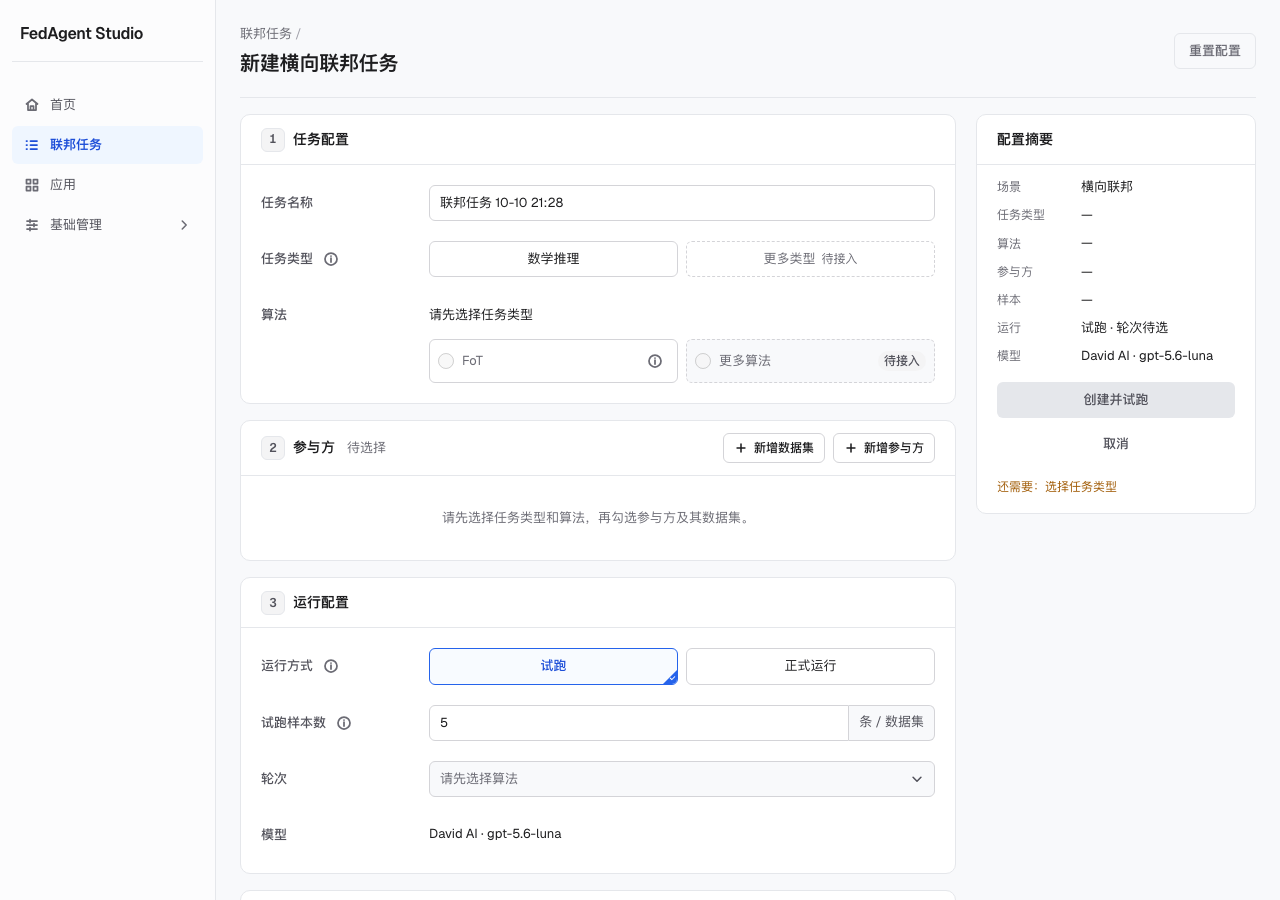
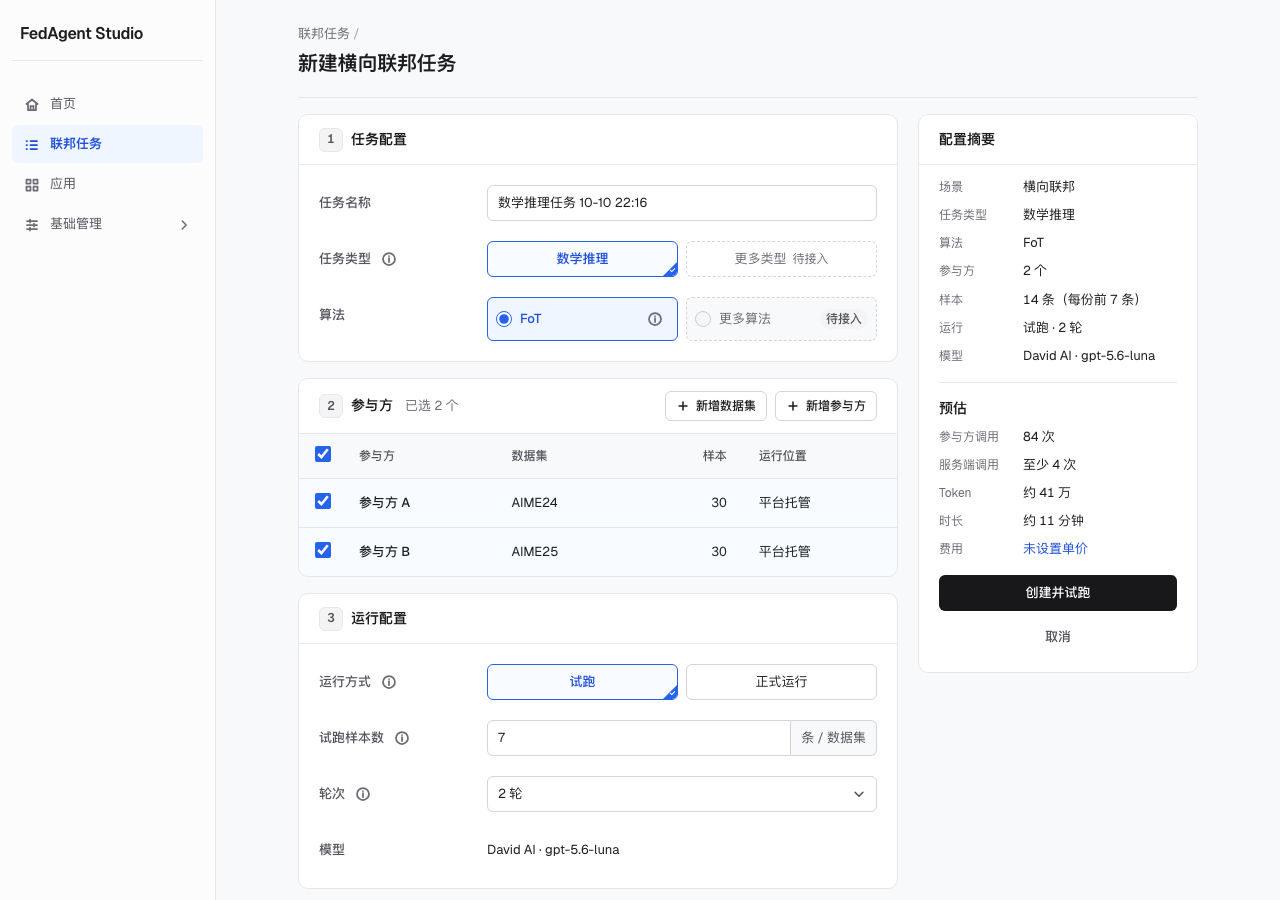
fix(ui): focus task configuration on available participants

diff --git a/app/src/ui/HorizontalTaskPage.tsx b/app/src/ui/HorizontalTaskPage.tsx
@@ -38,8 +38,6 @@ import {
   isConfigured,
   modelLabel,
   modelOptions,
-  PARTICIPANT_STATUS,
-  pendingNote,
   type Dataset,
   type Participant,
 } from "../domain/resources";
@@ -106,7 +104,8 @@ export default function HorizontalTaskPage({ state, dispatch }: Props) {
   const taskType = draft.taskType;
   const candidates: Candidate[] = algorithm && scenarioId && taskType
     ? state.participants.flatMap((participant) => {
-      const datasets = compatibleDatasets(scenarioId, taskType, datasetsOf(state, participant.id));
+      if (participant.status !== "online") return [];
+      const datasets = compatibleDatasets(scenarioId, taskType, datasetsOf(state, participant.id)).filter((dataset) => dataset.ready);
       return datasets.length ? [{ participant, datasets }] : [];
     })
     : [];
@@ -222,11 +221,7 @@ export default function HorizontalTaskPage({ state, dispatch }: Props) {
 
   return (
     <>
-      <PageHead title="新建横向联邦任务" crumbs={[{ label: "联邦任务", route: back }]} actions={(
-        <button type="button" className="button button--secondary" disabled={!draft.touched || creating} onClick={() => setPending("restart")}>
-          重置配置
-        </button>
-      )} />
+      <PageHead title="新建横向联邦任务" crumbs={[{ label: "联邦任务", route: back }]} />
       {createError && pending !== "full" ? <Notice tone="warning" onDismiss={() => setCreateError(null)}>没有创建：{createError}</Notice> : null}
       {restored && draft.scenario ? (
         <Notice onDismiss={() => setRestored(null)}>
@@ -266,7 +261,7 @@ export default function HorizontalTaskPage({ state, dispatch }: Props) {
             ) : candidates.length ? (
               <ParticipantTable draft={draft} dispatch={dispatch} candidates={candidates} />
             ) : (
-              <PanelEmpty>还没有参与方登记了“{usageText(scenarioId, taskType)}”的数据集。</PanelEmpty>
+              <PanelEmpty>暂无可用于“{usageText(scenarioId, taskType)}”的参与方。</PanelEmpty>
             )}
           </Panel>
 
@@ -275,6 +270,11 @@ export default function HorizontalTaskPage({ state, dispatch }: Props) {
           </Panel>
 
           <AdvancedPanel state={state} draft={draft} update={update} algorithm={algorithm} joined={joined.map((item) => item.participantId)} />
+          <div className="task-config-actions">
+            <button type="button" className="button button--secondary" disabled={!draft.touched || creating} onClick={() => setPending("restart")}>
+              重置配置
+            </button>
+          </div>
         </div>
 
         <aside className="order-summary" aria-label="配置摘要" id="task-summary">
@@ -380,19 +380,12 @@ type Candidate = { participant: Participant; datasets: Dataset[] };
 
 /**
  * 参与方：带复选框的表格，一行一个参与方，表头可以全选。每个参与方出一份数据集，
- * 名下有几份能用的数据集时在行里选用哪一份。还不能参加的（等待连接、离线、样本还没就绪）写明原因，并能点进去查看。
+ * 只展示在线且有匹配、已就绪数据集的参与方，多份可用数据集在行内选择。
  */
 function ParticipantTable({ draft, dispatch, candidates }: { draft: Draft; dispatch: Dispatch<Action>; candidates: readonly Candidate[] }) {
   const head = useRef<HTMLInputElement>(null);
   const picks = new Map(draft.participants.map((item) => [item.participantId, item.datasetId]));
-  // 能选的数据集：参与方在线、样本已就绪。能参加的排在前面，还不能参加的放在后面。
-  const rows = candidates
-    .map(({ participant, datasets }) => {
-      const ready = participant.status === "online" ? datasets.filter((dataset) => dataset.ready) : [];
-      return { participant, datasets, ready, picked: ready.find((dataset) => dataset.id === picks.get(participant.id)) };
-    })
-    .sort((a, b) => Number(!a.ready.length) - Number(!b.ready.length));
-  const open = rows.filter((row) => row.ready.length);
+  const open = candidates.map(({ participant, datasets }) => ({ participant, ready: datasets, picked: datasets.find((dataset) => dataset.id === picks.get(participant.id)) }));
   const chosen = open.filter((row) => row.picked).length;
   const all = open.length > 0 && chosen === open.length;
   const some = !all && chosen > 0;
@@ -422,20 +415,18 @@ function ParticipantTable({ draft, dispatch, candidates }: { draft: Draft; dispa
             <th scope="col">数据集</th>
             <th scope="col" className="numeric col-optional">样本</th>
             <th scope="col" className="col-optional">运行位置</th>
-            <th scope="col">状态</th>
           </tr>
         </thead>
         <tbody>
-          {rows.map(({ participant, datasets, ready, picked }) => {
-            const enabled = ready.length > 0;
+          {open.map(({ participant, ready, picked }) => {
             const checked = picked !== undefined;
-            const choices = enabled ? ready : datasets;
+            const choices = ready;
             const shown = picked ?? choices[0];
             const toggle = () => dispatch({ type: "pickDataset", participantId: participant.id, datasetId: checked ? null : shown.id });
             const inputId = `pick-${participant.id}`;
             return (
-              <tr key={participant.id} className={`select-row${checked ? " select-row--checked" : ""}${enabled ? "" : " select-row--disabled"}`} onClick={rowToggle(enabled, toggle)}>
-                <td className="select-cell"><input id={inputId} type="checkbox" checked={checked} disabled={!enabled} onChange={toggle} /></td>
+              <tr key={participant.id} className={`select-row${checked ? " select-row--checked" : ""}`} onClick={rowToggle(true, toggle)}>
+                <td className="select-cell"><input id={inputId} type="checkbox" checked={checked} onChange={toggle} /></td>
                 <th scope="row"><label htmlFor={inputId}>{participant.name}</label></th>
                 <td>
                   {choices.length > 1 ? (
@@ -444,7 +435,6 @@ function ParticipantTable({ draft, dispatch, candidates }: { draft: Draft; dispa
                       name={`dataset-${participant.id}`}
                       aria-label={`${participant.name} 用的数据集`}
                       value={shown.id}
-                      disabled={!enabled}
                       // 选了数据集就是要让这个参与方参加。
                       onValueChange={(value) => dispatch({ type: "pickDataset", participantId: participant.id, datasetId: value })}
                     >
@@ -452,17 +442,8 @@ function ParticipantTable({ draft, dispatch, candidates }: { draft: Draft; dispa
                     </SelectField>
                   ) : shown.name}
                 </td>
-                <td className="numeric col-optional">{shown.ready ? formatNumber(shown.count) : "—"}</td>
+                <td className="numeric col-optional">{formatNumber(shown.count)}</td>
                 <td className="col-optional">{HOSTING_LABELS[participant.hosting]}</td>
-                <td>
-                  {enabled ? <span className="status-text">可用</span> : (
-                    <span className="cell-title">
-                      <Tag tone="warning">{participant.status === "online" ? `样本${pendingNote(shown)}` : PARTICIPANT_STATUS[participant.status]}</Tag>
-                      {/* 手机上状态列窄，只留状态，免得"查看"单独折到下一行 */}
-                      <a className="text-link wide-only" href={hrefOf({ page: "participants", scenario: draft.scenario ?? undefined, id: participant.id })}>查看</a>
-                    </span>
-                  )}
-                </td>
               </tr>
             );
           })}

diff --git a/app/src/styles.css b/app/src/styles.css
@@ -463,6 +463,9 @@ input[type="checkbox"], input[type="radio"] { width: 16px; height: 16px; margin:
 /* 两栏一样高：右栏撑满整行，里面的配置摘要吸顶，滚动时一直看得见 */
 .order-layout { display: grid; grid-template-columns: minmax(0, 1fr) 280px; gap: var(--space-5); align-items: stretch; }
 .order-main { display: grid; gap: var(--space-4); min-width: 0; }
+/* 任务配置保持适合阅读的宽度，避免宽屏把单个控件无限拉长。 */
+.page:has(.task-config) { width: min(900px, calc(100% - 48px)); }
+.task-config-actions { display: flex; justify-content: flex-end; padding-top: var(--space-2); }
 
 /* ——— 控制台面板 ——— */
 .panel { min-width: 0; background: var(--background); border: 1px solid var(--border); border-radius: var(--radius); }
@@ -906,6 +909,7 @@ a.algo-card:focus-visible { outline: 2px solid var(--accent); outline-offset: 2p
 /* ——— 1180px 以下：新建任务的配置摘要移到下方，开始按钮放进吸底操作栏 ———
  * 侧栏和摘要同时占位时，主栏窄于 600px，参与方表格会把中文挤成两行 */
 @media (max-width: 1180px) {
+  .page:has(.task-config) { width: min(600px, calc(100% - 48px)); }
   .order-layout { grid-template-columns: minmax(0, 1fr); gap: var(--space-8); }
   .order-summary > .summary-panel { position: static; }
   .page:has(.order-bar) { padding-bottom: 104px; }
@@ -952,6 +956,7 @@ a.algo-card:focus-visible { outline: 2px solid var(--accent); outline-offset: 2p
   /* 顶栏和页脚占了高度，首页不再上下居中，从上往下排 */
   .home { min-height: 0; align-content: start; padding-bottom: 0; }
   .page { width: calc(100% - 32px); padding-top: var(--space-5); }
+  .page:has(.task-config) { width: min(600px, calc(100% - 32px)); }
   /* 顶栏吸顶，锚点和焦点滚动时留出它的高度 */
   html { scroll-padding-top: 72px; }
   .page-title-row h1 { font-size: var(--text-xl); }

diff --git a/docs/HANDOFF.md b/docs/HANDOFF.md
@@ -1,6 +1,6 @@
 # 交接说明
 
-更新时间：2026-10-10（T69）。给接手开发的人和 AI：先读这一页，再读仓库根目录的 [AGENTS.md](../AGENTS.md)（协作规则和安全红线）。
+更新时间：2026-10-10（T70）。给接手开发的人和 AI：先读这一页，再读仓库根目录的 [AGENTS.md](../AGENTS.md)（协作规则和安全红线）。
 
 ## 现状
 
@@ -12,7 +12,7 @@
 - **测试**：前端 28 个、后端 53 个测试，包括 FoT 契约、真实 runner、本地客户端租约、跨进程限流和备份恢复；前端补充服务端步骤不虚构进度的回归。
 - **真实模型验证**（2026-10-05）：在部署的平台上用界面完整走过一遍（新建试跑 → 进度 → 产出 → 发布 → 试用 → 复制为新任务）。三个真实任务都完成了，最后一次 28 次调用全部成功、没有重试。
 
-各模块的完成情况见 [PROGRESS.md](./PROGRESS.md)，每次改了什么见 [HISTORY.md](./HISTORY.md)（T1–T69）。新建任务固定面板和字段从首次打开起全部可见，未满足前置条件的控件置灰或写明需要先选什么。已结束任务可在列表或详情中确认删除；保留已发布应用和模型费用账本，目前 4 个任务、3 个应用，原有记录已核对保留。
+各模块的完成情况见 [PROGRESS.md](./PROGRESS.md)，每次改了什么见 [HISTORY.md](./HISTORY.md)（T1–T70）。新建任务固定面板和字段从首次打开起全部可见，未满足前置条件的控件置灰或写明需要先选什么。已结束任务可在列表或详情中确认删除；保留已发布应用和模型费用账本，目前 4 个任务、3 个应用，原有记录已核对保留。
 
 T61 完成 Mobbin Pro 研究与本机官方 MCP 接入，7 个产品、11 个流程、51 张步骤图已核验；[界面参考研究](./UI-REFERENCES.md)记录 T62 用户确认的三个主参考、用途与设计约定，[使用说明](./MOBBIN.md)记录接入和检索。本机原图包在 `.references/mobbin/`，Git 只记录来源清单和结论。MCP 在本机 `~/.codex/config.toml`，授权由 Codex 管理，不随仓库迁移；此旧聊天的工具列表未即时刷新，通过 app-server 实际调用成功。T62 于 2026-10-07 22:18（香港时间）已部署前端优化，保留现有功能与技术栈，不增加额外内容。本地假模型流程、全站可访问性／断行、线上桌面／手机与后端校验通过；没有新增付费模型调用。快照 `20261007T141806363331Z` 在服务器与 Mac，数据库完整性正常，原有 4 个任务／3 个应用／9 份数据集保留。
 
@@ -39,6 +39,12 @@ T69 于2026-10-10 21:27已部署新建任务精简：名称并入类型／算法
 前端28／后端53、本地配置58／确认38／选择44／动效38、生产预览配置58／确认38／动效36、线上只读配置50／选择34／动效36通过；可访问性87组合／九宽度无新增问题。真实本地假模型创建→runner两轮→发布→试用通过，临时本地记录清理且原记录保留；未新增付费模型调用。桌面／手机截图已复核；task-flow.mjs轮次改用菜单，config.mjs覆盖恢复／独立重置／数字轮次，feedback.mjs覆盖失败后重置不跳动和旧错误清理。
 
 **当前运行状态（T69）**：API2719051／runner2719052，健康正常、访问令牌关闭。完整快照`20261010T132734081513Z`在服务器与Mac，两处快照／服务器当前库SQLite完整性正常、匹配密钥存在（未读取）；部署前后及快照4任务／3应用／9数据集／9参与方ID一致。入口index-BHPXhsL3.css／index-DEqRIkLQ.js，Chart-BKoYcLA-.js按需加载。首次部署在停服前发生SSH复用连接Broken pipe，旧服务与数据未变；以`SSH_CONTROL_PATH=none`重试成功，不修改全局SSH配置或服务器权限。前文进程与快照均为历史状态。
+
+T70于2026-10-10 22:15已部署：新建任务参与方只列在线且有匹配就绪题库的行，无重复状态列；无可用项给出空态，最低参与方要求和后端准入不变，失效草稿不计入可参加数量。“重置配置”在高级配置之后，覆盖T69页头位置，确认与取消规则保留。桌面页总宽900px、左栏600px／摘要280px／间距20px；摘要下移时单栏仍最多600px，手机留16px边距。采用D66，不新增库、业务功能或修改资源管理记录。
+
+前端28／后端53、本地配置66／确认38／选择44／动效38、生产预览配置66／动效36、线上只读配置54／选择34／动效36通过；全站87可访问性组合／九宽度无新增问题。本地假模型创建→runner两轮→发布→试用通过并保留原记录；离线、未就绪题库、失效选择与无可用项仅本地响应夹具验证，不更改生产状态。桌面／手机截图已实际查看保存，未新增付费模型调用。
+
+**当前运行状态（T70）**：API2749847／runner2749848，健康正常、访问令牌关闭。完整快照`20261010T141444486632Z`在服务器与Mac，两处快照及服务器当前库SQLite完整性正常、匹配密钥存在（未读取）；部署前后及快照4任务／3应用／9数据集／9参与方ID一致。入口index-BVdC09rm.css／index-DLOFm0qq.js，Chart-CQ5nUSO-.js按需加载，线上内容与本机构建相同。部署继续使用`SSH_CONTROL_PATH=none`，前文进程与快照是对应历史任务状态。
 
 ## 服务器怎么连
 
@@ -131,7 +137,7 @@ tail -f ~/fedagent-studio/logs/api.log         # 每个任务的日志在 data/r
 | [DEVELOPMENT.md](./DEVELOPMENT.md) | 本地开发、测试、代码结构、加算法、部署、界面规范 |
 | [PROGRESS.md](./PROGRESS.md) | 各模块完成情况、服务器、最近的验证结果 |
 | [DECISIONS.md](./DECISIONS.md) | 设计决策和没采用的方案（D1–D62） |
-| [HISTORY.md](./HISTORY.md) | 每次任务改了什么、怎么验证的（T1–T69） |
+| [HISTORY.md](./HISTORY.md) | 每次任务改了什么、怎么验证的（T1–T70） |
 | [UI-REFERENCES.md](./UI-REFERENCES.md) | Mobbin 产品与流程参考、适配建议、优化优先级 |
 | [MOBBIN.md](./MOBBIN.md) | 网页筛选、官方 MCP 接入与检索、下载与额度 |
 | [tools/ui-check](../tools/ui-check/README.md) | 界面检查脚本 |

diff --git a/docs/UI-REFERENCES.md b/docs/UI-REFERENCES.md
@@ -248,3 +248,21 @@ Browserbase 全屏彩色纹理过强，Recraft 是营销首页，Unify 的主体
 - **状态**：首次打开重置按钮可见但禁用；用户修改或恢复草稿后启用，创建中禁用。恢复／复制提示仅显示信息与关闭操作；打开重置确认时提示保留，不让页面因消息消失重排。取消／Esc恢复按钮焦点并保留名称、选择、参数；确认清除名称覆盖、类型、算法、参与方、参数、恢复提示和旧创建错误，通用默认值恢复，轮次重新等待算法，不调用任务删除或创建接口。
 - **组件映射**：复用 PageHead.actions、Button、Notice、统一 Confirm、Field／Panel；Choices超过3项使用已有Radix SelectField，按原选项映射回字符串／数字，不新增库。重置、放弃、正式运行共用单一确认入口，避免两套模态。
 - **验收**：桌面／手机只有三个固定分区、名称归入首区；轮次菜单真实键盘选择与数字状态／摘要接通；独立重置的禁用／恢复草稿／取消保留／确认清除／焦点正确；确认居中，信息提示与菜单不重排。既有模型、Tooltip、确认与动效回归，前后端检查、全站可访问性与九宽度断行，实际本地假模型完整流程及线上只读复测；不增加付费模型调用。
+
+## T70：参与方只列可用项，重置跟随配置，限制表单宽度
+
+用户直接要求修正参与方筛选、重置位置与左栏宽度，沿用已确认的T67／T68参考和组件。
+
+- **核心流程**：选择类型／算法 → 勾选当前可用参与方及就绪题库 → 调整运行配置 → 原有校验／创建；重置在高级配置之后，跟随左侧配置区。
+- **布局**：桌面页面总宽最多900px，左栏600px、摘要280px、间距20px；名称列148px和20px间隔保留，输入区约390px。摘要下移的视口，表单仍最多600px；手机按屏幕减32px铺开。参与方表格保留名称、数据集、样本与运行位置，移除重复状态列。
+- **组件映射**：沿用Panel／Field／ParticipantTable、SelectField、Confirm与现有CSS；候选使用既有在线、题库就绪和场景／类型兼容条件，重置按钮放order-main末尾，不改变后端准入。无新依赖或业务功能。
+
+| 状态 | 展示与操作 | 后续 |
+|---|---|---|
+| 前置未选 | 固定参与方分区与选类型／算法提示 | 用户自行选择前置 |
+| 有可用参与方 | 仅显示在线且有兼容、就绪题库的行；全选、单选题库保持原行为 | 原有后端校验与运行 |
+| 没有可用参与方 | 一条空态，新增入口保留，创建禁用 | 登记／接入可用资源后再选 |
+| 已选资源失效 | 不计入可参加数量，缺少最低参与方时禁止创建；不虚构可用性 | 修改选择或重新准备资源 |
+| 配置底部重置 | 未修改／创建中禁用；取消保留，确认恢复初始配置 | 原确认与焦点规则不变 |
+
+**验收条件**：桌面／手机仅显示真正可用行、就绪题库，空态和失效草稿准确，状态列不重复；宽屏控件不无限变宽、窄屏无横向溢出／不当断行；重置在高级配置后，取消保留和确认清理正确；配置、菜单、确认、动效、全站可访问性／九宽度、实际本地假模型流程及生产构建／线上只读检查。不可用夹具只改本地响应，不更改生产参与方状态或记录。

diff --git a/docs/DEVELOPMENT.md b/docs/DEVELOPMENT.md
@@ -179,13 +179,15 @@ bash deploy/deploy.sh
   - 列表页的分类统一两层：先按场景分块（每个场景一个 `Panel`，规划中的场景标"规划中"，空面板可用 `.panel--planned` 减少占用），任务类型是表格的一列；上方 `.list-toolbar` 放 `SearchInput` 和 `TaskTypeSelect`，对所有场景一起生效，任务／应用无记录时也保留工具栏。新的列表页照这个写，不要用标签页切换场景，也不要把任务类型做成分组标题；
   - 互斥选项用 `Choices`（2–3项直接比较，超过3项自动复用SelectField收起，值类型不变），选项多或次要设置用共享 `SelectField`（Radix Select + 现有 CSS，option 只声明数据，onValueChange 返回字符串；菜单在 Portal 中，支持键盘、长列表、边界避让与有效空值），参与方用复选表格，算法短名称选项配 ⓘ；
   - 标签一律用 `Tag`，折叠一律用 `Collapsible`，代码块一律用 `CodeBlock`；
-  - 新建任务“重置配置”放PageHead.actions，独立于信息Notice；首次／创建中禁用，修改或恢复后可用；统一Confirm取消保留，确认恢复初始配置并清理旧错误，不删除平台记录（T69／D65）。
+  - 新建任务“重置配置”放order-main末尾、高级配置之后，独立于页头和信息Notice；首次／创建中禁用，修改或恢复后可用；统一Confirm取消保留，确认恢复初始配置并清理旧错误，不删除平台记录（T70／D66，覆盖T69页头位置）。
   - 表单底部一律用 `FormActions`：保存按钮不可用时写明还缺什么（和按钮关联，读屏也能听到）；
   - 任务配置算法只显示短名称，完整名称、介绍、交换内容与产出通过独立 ⓘ 查看；注册表驱动，不为 FoT 写死。必要前置／状态继续直接展示；算法参数在“高级配置”。
   - 多模型用 `ModelPicker`：AI Elements ModelSelector 的 Apache-2.0 源码适配（许可证与源 commit 在 `app/src/ui/ai-elements/`），复用 Radix Dialog／cmdk，自动聚焦搜索、按已登记接口分组、回传原引用、关闭恢复触发焦点；单模型直接展示。其他下拉继续 SelectField。不为组件迁移 Next.js／Tailwind／AI SDK。配置回归 `tools/ui-check/config.mjs` 支持本地响应夹具与线上只读验证，禁止业务写入和模型调用。
   - 字号 6 档、字重 3 档、4 为基数的间距。
   - 进度页按轮次和执行位置组织步骤；已完成任务默认展开最后一轮，未执行的时长写明“预计”。发布表单固定所选轮次并核对实际来源；试用结果保留提交时的问题、答案和模型，修改输入后标为“上次对比结果”，不新增历史系统。
   - 优先复用现有组件与 CSS。按需复用已核对的第三方原语或 AI Elements 源码，保留许可证；不为了参考新增无业务需要的功能或迁移整个样式体系。
+
+  - T70任务候选仅显示在线且有兼容、就绪题库的参与方，移除状态列；空态与最低参与方校验保留。任务页总宽900px、左栏600px／摘要280px／间距20px；摘要下移后单栏仍最多600px，手机边距16px。可用性夹具只改浏览器响应，验证失效草稿不计入、无可用项禁用创建。
 
 ## 提交约定
 

diff --git a/docs/HISTORY.md b/docs/HISTORY.md
@@ -1108,3 +1108,15 @@
 - 部署：21:27（香港时间），API2719051／runner2719052，健康正常、访问令牌关闭；入口index-BHPXhsL3.css／index-DEqRIkLQ.js与本地一致。首次SSH复用连接在停服前断开，核对旧服务后以SSH_CONTROL_PATH=none重试成功，未改全局配置。
 - 数据：完整快照20261010T132734081513Z在服务器与Mac，完整性ok、匹配密钥存在（未读取）；部署前后和快照4任务／3应用／9数据集／9参与方ID一致，未修改生产记录。桌面／手机及菜单／重置截图已实际查看保存。
 - 维护：D65、UI-REFERENCES设计约定，同步AGENTS／DEVELOPMENT／PROGRESS／HANDOFF；更新配置、确认、本地完整流程回归与脚本说明。
+
+## T70：参与方仅显示可用项，重置跟随配置，收窄左栏
+
+- 类型：UI / UX；时间：2026-10-10；状态：完成并部署。用户直接要求三处调整，沿用已确认参考与组件，无新依赖或业务功能。
+- 参与方：候选为在线且有兼容场景／类型、已就绪题库的行；移除状态列与不可用行，表格全选／题库选择不变。没有候选显示空态；失效草稿不计入参加数量，最低参与方与后端校验保留；资源记录不删除。
+- 重置：移到左侧配置末尾、高级配置之后，覆盖T69的页头位置；未编辑／创建中禁用、取消保留／确认清理和焦点规则不变。
+- 宽度：桌面页面总宽900px，左栏600px、摘要280px、间距20px，控件约390px；单栏继续最多600px，手机保持16px边距，其他页面不变。
+- 验证：前端28／后端53及lint／类型／构建通过。本地配置66／确认38／选择44／动效38，生产预览配置66／动效36，线上只读配置54／选择34／动效36通过；全站87可访问性组合／九宽度无新增问题。实际本地假模型创建→runner两轮完成→发布→试用通过，临时记录清理，原有本地任务和应用保留；无新增付费调用。
+- 可用性：真实界面与资源列表核对；离线、未就绪题库、保留失效草稿、无可用项仅在本地响应夹具验证；线上不切换参与方状态。截图已实际查看并保存。React复查涵盖候选／选择派生值、全选勾选与effect、焦点和分支，不新增状态同步或重挂载。
+- 部署：22:15（香港时间），API2749847／runner2749848，健康正常、访问令牌关闭；入口index-BVdC09rm.css／index-DLOFm0qq.js与本机构建相同，使用SSH_CONTROL_PATH=none。
+- 数据：完整快照20261010T141444486632Z在服务器与Mac，两处快照／服务器库完整性ok，匹配密钥存在（未读取）；4任务／3应用／9数据集／9参与方的ID与部署前及快照一致，未修改生产记录。
+- 维护：D66、UI-REFERENCES设计交付物，同步AGENTS／DEVELOPMENT／PROGRESS／HANDOFF／脚本说明；配置回归覆盖可用性、空态、限宽与配置底部重置。

diff --git a/docs/PROGRESS.md b/docs/PROGRESS.md
@@ -1,11 +1,11 @@
 # 当前进展
 
-更新时间：2026-10-10（T69）
+更新时间：2026-10-10（T70）
 版本：前端 0.5.0，后端 0.1.0（联邦 Agent）
 
 交接说明（现状、部署、服务器怎么连、待办）见 [HANDOFF.md](./HANDOFF.md)。
 
-T69 已按用户修正精简新建任务：名称并入“任务配置”，固定分区为任务配置／参与方／运行配置（1–3）；通用互斥选项超过3项使用菜单，轮次不再平铺。“重置配置”独立放页头，恢复提示只显示信息与关闭；取消保留草稿，确认恢复初始配置并清理旧错误，打开确认时提示保持原位。21:27已部署，保留React／Vite／CSS和原业务。前端28／后端53、本地配置58／确认38／选择44／动效38，生产预览58／38／36、线上只读配置50／选择34／动效36通过；全站87可访问性组合／九宽度无新增问题，本地假模型创建→runner→发布→试用完成。原任务4／应用3／数据集9／参与方9与部署前和快照ID一致，未新增付费模型调用。维护依据D65与[UI-REFERENCES](./UI-REFERENCES.md)。
+T70已按用户修正：任务选择区仅展示在线且有兼容、就绪题库的参与方，去掉状态列；重置移到高级配置下方，跟随左侧配置区。桌面页面最多900px、左栏600px／摘要280px，单栏仍限宽600px，手机保持16px边距。22:15已部署，保留三分区、菜单、说明浮层与原业务。本地配置66／确认38／选择44／动效38、生产预览66／36、线上只读配置54／选择34／动效36通过；前端28／后端53、全站87可访问性组合／九宽度无新增问题。本地假模型完整流程完成，原任务4／应用3／数据集9／参与方9与部署前和快照ID一致，无新增付费模型调用。维护依据D66与[UI-REFERENCES](./UI-REFERENCES.md)。
 
 ## 一句话状态
 

diff --git a/tools/ui-check/README.md b/tools/ui-check/README.md
@@ -12,7 +12,7 @@
 | `participants.mjs` | 信息分区、折叠、连接命令／复制、加载重试与一次性令牌展示（响应夹具） | `node participants.mjs`，连接本地内置示例；不签发真实令牌或调用模型；CDP_OUT 指定证据目录 |
 | `motion.mjs` | 页面／标签动效、快速切换、草稿和编辑状态保留、折叠中间帧、减少动态与焦点 | `node motion.mjs`；只读现有任务／应用，拦截全部写请求；支持线上 BASE，本地另用前端通知夹具检查 Toast |
 | `select.mjs` | 选择菜单、键盘／焦点、筛选、占位／禁用／空值、长菜单与表格事件及标签指示条 | `node select.mjs`；本地响应夹具；线上 `SELECT_FIXTURES=0`，禁止业务写入与模型调用 |
-| `config.mjs` | 三分区／轮次菜单／独立重置与恢复提示、任务逐行配置、ⓘ真实悬停／键盘／触屏／关闭、无重排、运行方式、模型搜索／空状态／焦点恢复 | `node config.mjs`；本地响应夹具；线上 `CONFIG_FIXTURES=0`；禁止业务写入与模型调用 |
+| `config.mjs` | 可用参与方／空态与失效草稿／限宽／配置底部重置、三分区／轮次菜单／恢复提示、任务逐行配置、ⓘ真实悬停／键盘／触屏／关闭、无重排、运行方式、模型搜索／空状态／焦点恢复 | `node config.mjs`；本地响应夹具；线上 `CONFIG_FIXTURES=0`；禁止业务写入与模型调用 |
 | `task-flow.mjs` | 本地真接口、假模型、runner 的配置 → 完成 → 发布 → 对比 | `node task-flow.mjs`；仅允许 localhost／127.0.0.1；核对 fake 接口，只清理自己创建的任务／应用并逐项保留原有记录 |
 | `docshots.json` | 文档里的 14 张截图（`docs/screenshots/`） | `CDP_OUT=../../docs/screenshots node cdp.mjs docshots.json` |
 

diff --git a/docs/DECISIONS.md b/docs/DECISIONS.md
@@ -786,3 +786,12 @@ demo 阶段不追求全覆盖，场景、子项和策略只保留最通用、最
 - 2–3个互斥项直接比较；超过3项收进既有选择菜单，保持值类型和回调；当前五个轮次改为下拉，多模型继续ModelPicker。名单多选仍独立表格，不按此规则隐藏参与方。
 - “重置配置”是页头独立次要操作，首次不可用，修改／恢复后启用，创建中锁定；信息提示只做信息与关闭。沿用统一居中Confirm，取消保留草稿，确认恢复初始选择／默认值并清掉旧错误，不删除已创建任务或平台数据。
 - 沿用T67／T68已确认参考及组件，不重新研究、新增依赖或改变框架。设计交付物与验证见UI-REFERENCES T69。
+
+## D66：任务配置仅展示可用参与方，重置放配置末尾，表单限制宽度
+
+状态：采用（T70，2026-10-10；用户直接修正）
+
+- 新建任务候选为在线且有匹配场景／类型、已就绪题库的参与方；表格移除状态列。无可用项显示简洁空态，原后端准入与最低参与方要求保留。资源管理和持久化记录不因界面过滤而删除。
+- 重置按钮在左侧高级配置之后，覆盖D65的页头位置；编辑／恢复后可用，确认与草稿清理规则不变。
+- 桌面页面最多900px，左侧600px、摘要280px、间距20px；单栏表单最多600px，手机保持安全边距。字段轴线与控件沿用，不新增装饰或组件库。
+- 设计与验收见UI-REFERENCES T70；离线／未就绪与失效选择通过本地响应夹具验证，纯UI不重复付费模型调用。
